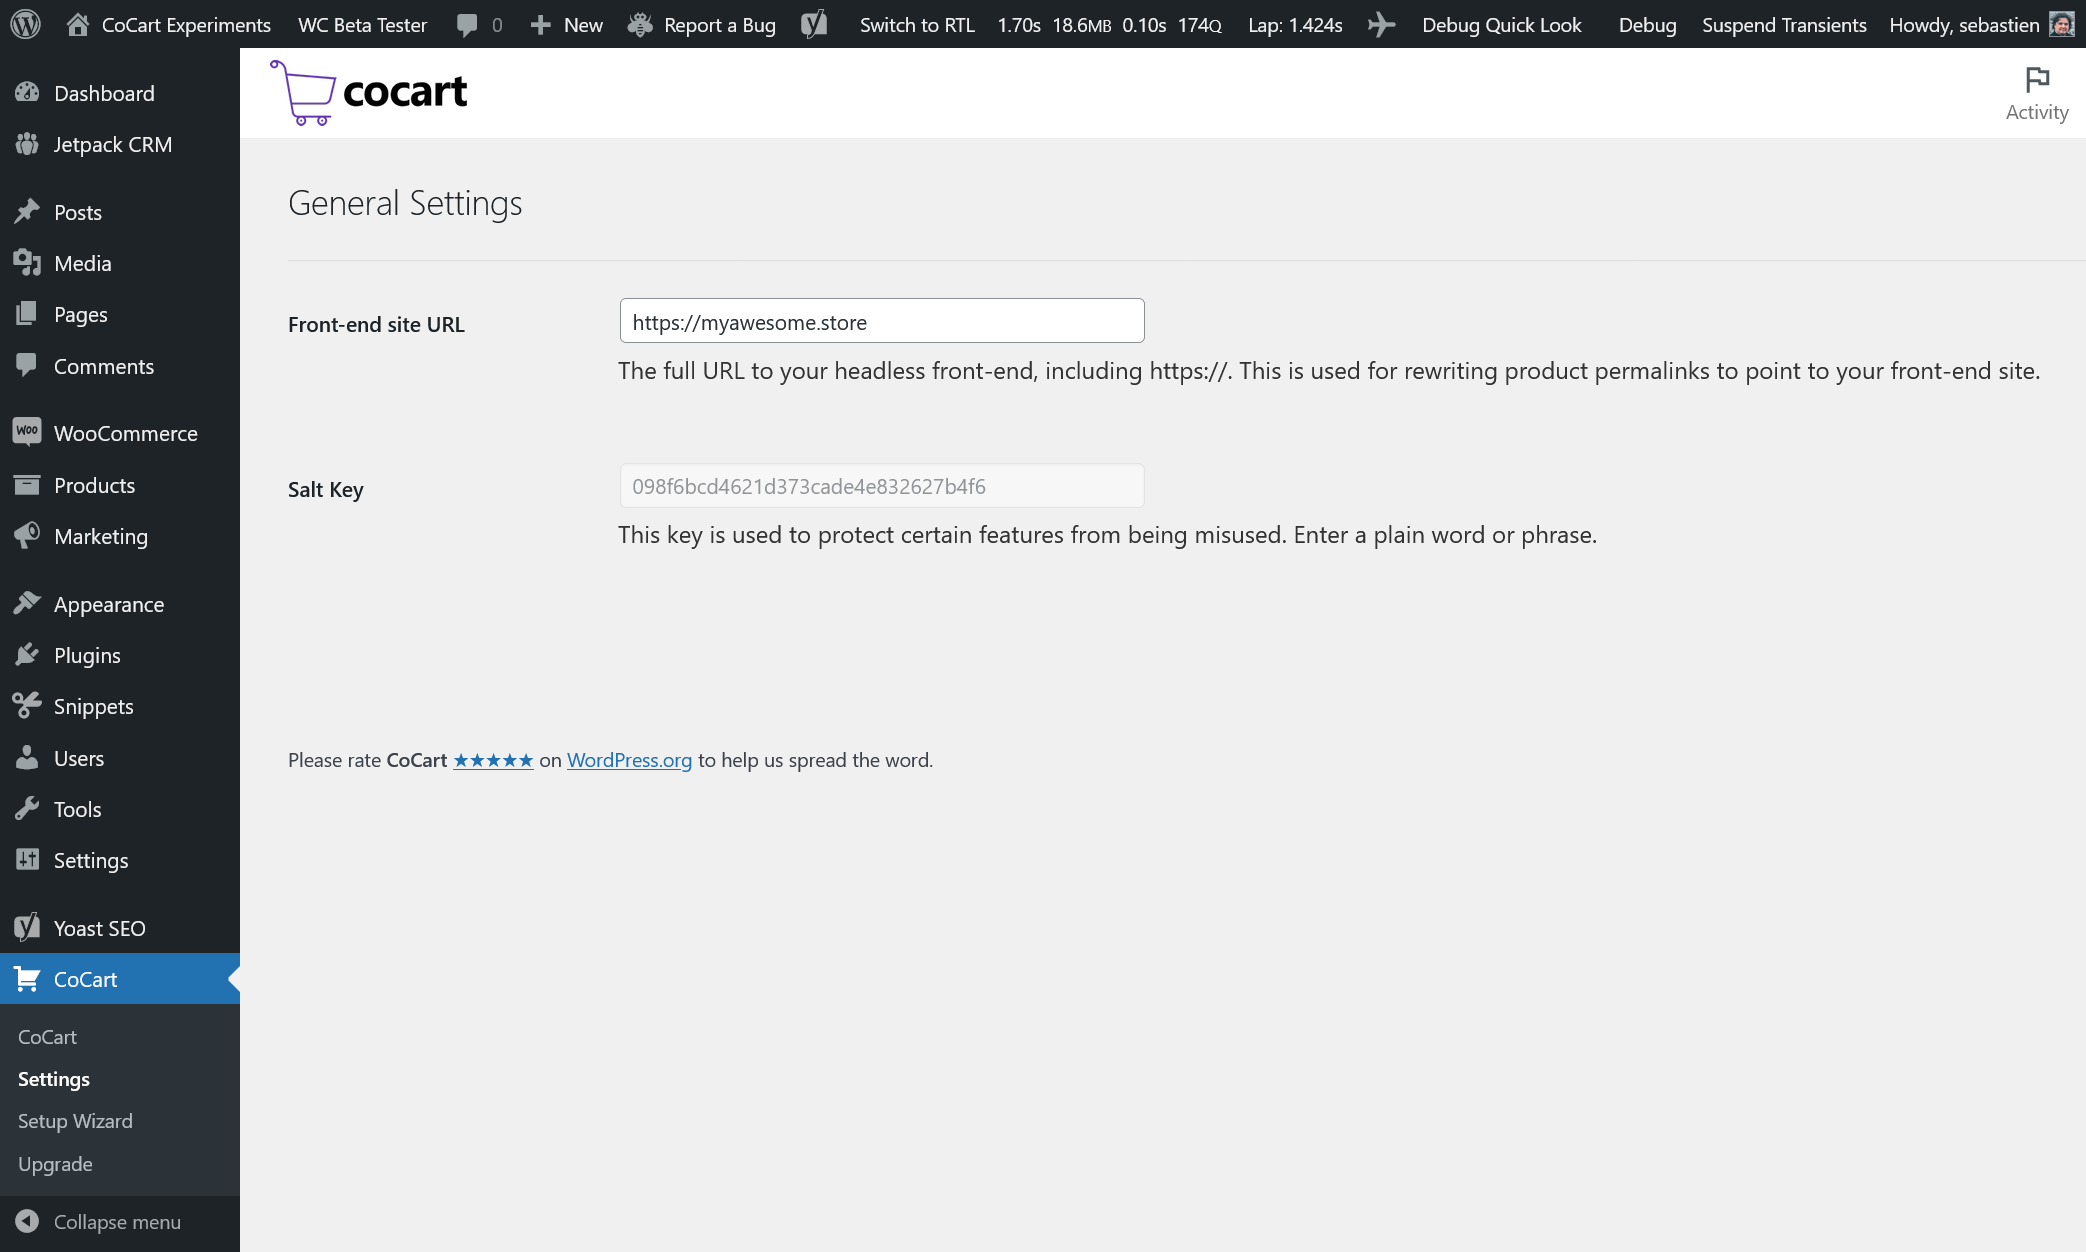
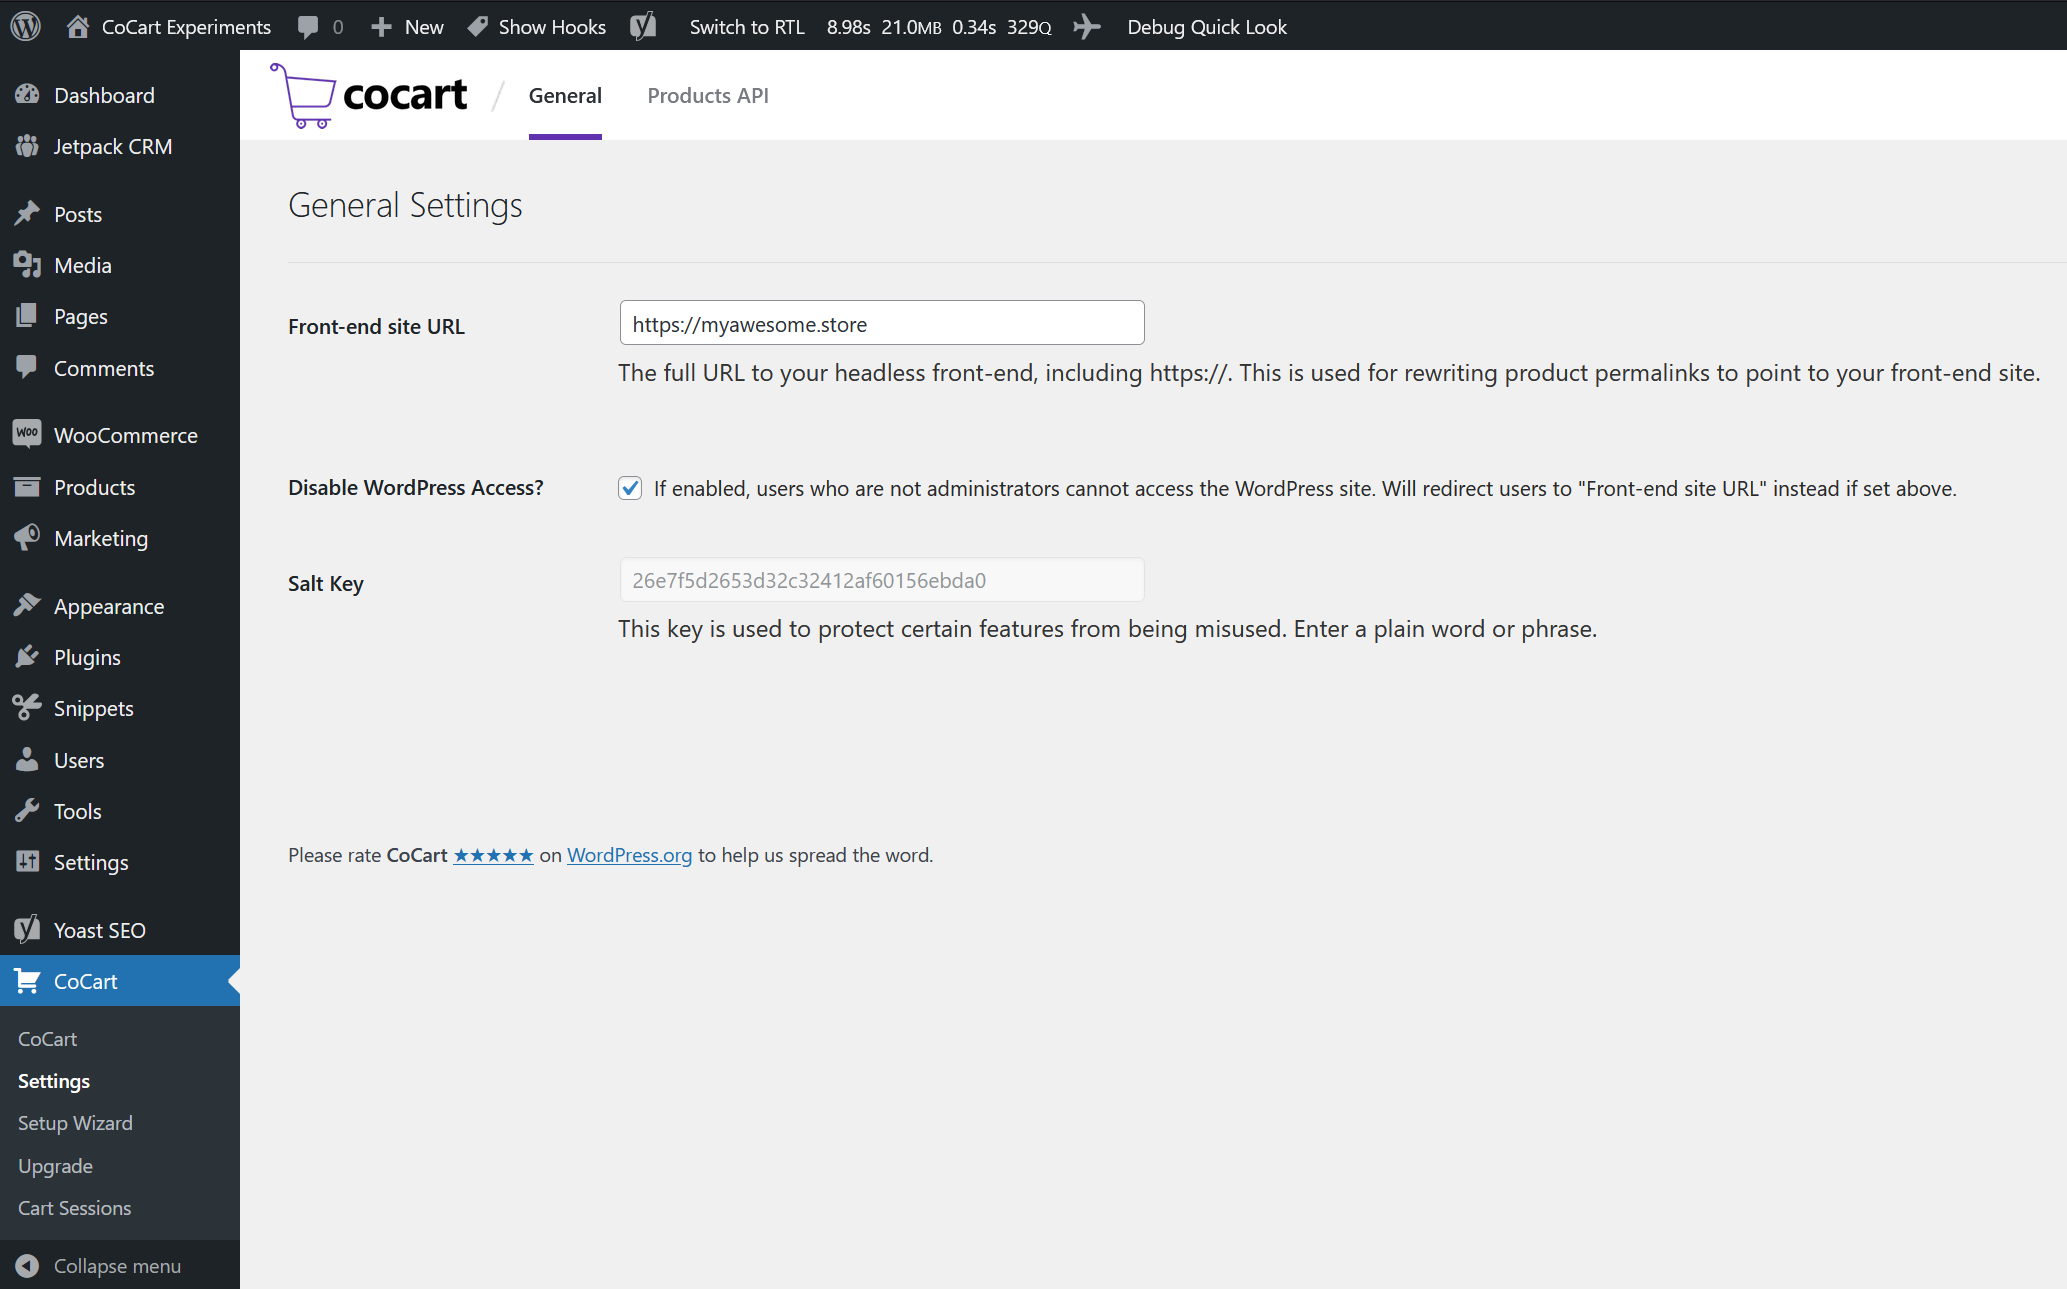
Updated settings screenshot

diff --git a/NEXT_CHANGELOG.md b/NEXT_CHANGELOG.md
@@ -30,6 +30,7 @@
 - New settings page:
   - Set the front-end site URL for product permalinks for the Products API.
   - Set a Salt Key to secure specific features from outside tampering. If salt key is already set in `wp-config.php` then that will take priority.
+  - Disable WordPress Access if enabled. Users who are not administrators cannot access the WordPress site and are redirected to "Front-end site URL" instead.
   - Set default configurations for the default behaviour when accessing the products API.
 
 <p align="center"><img src="https://raw.githubusercontent.com/co-cart/co-cart/dev/docs/images/cocart-settings.png" alt="CoCart Plugin Settings" /></p>
@@ -99,6 +100,7 @@ Just a small way of hiding the use of `wp-json` or if you want to prefix `wp-jso
 - All endpoints with schema now have proper schema title for proper identification.
 - The callback for cart update endpoint now passes the controller class so we don't have to call it a new.
 - Caching of same item added to cart no longer loses previous custom price set before and has not changed.
+- Store API only returns the version, routes and link to documentation if "WP_DEBUG" is true.
 
 ## Security
 
